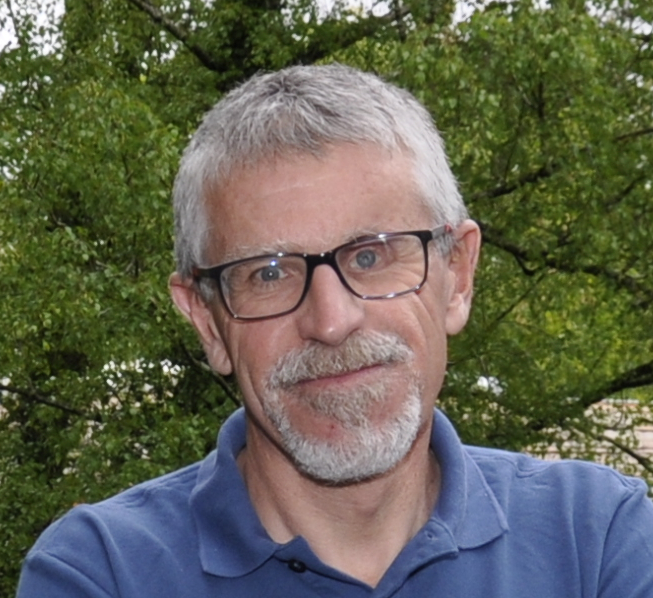
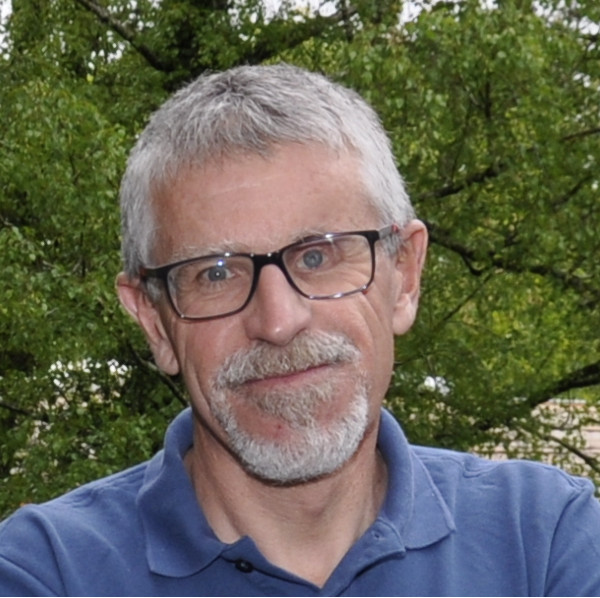
resize pics

diff --git a/content/team/Guillaume-Boutin.md b/content/team/Guillaume-Boutin.md
@@ -2,7 +2,7 @@
 title: "Guillaume Boutin"
 date: 2018-11-19T10:47:58+10:00
 draft: false
-image: "/images/team/guillauleboutin.jpg"
+image: "/images/team/GuillaumeBoutin.png"
 jobtitle: "Research Scientist - WP1"
 promoted: true
 Website: https://www.nersc.no/staff/guillaume-boutin
